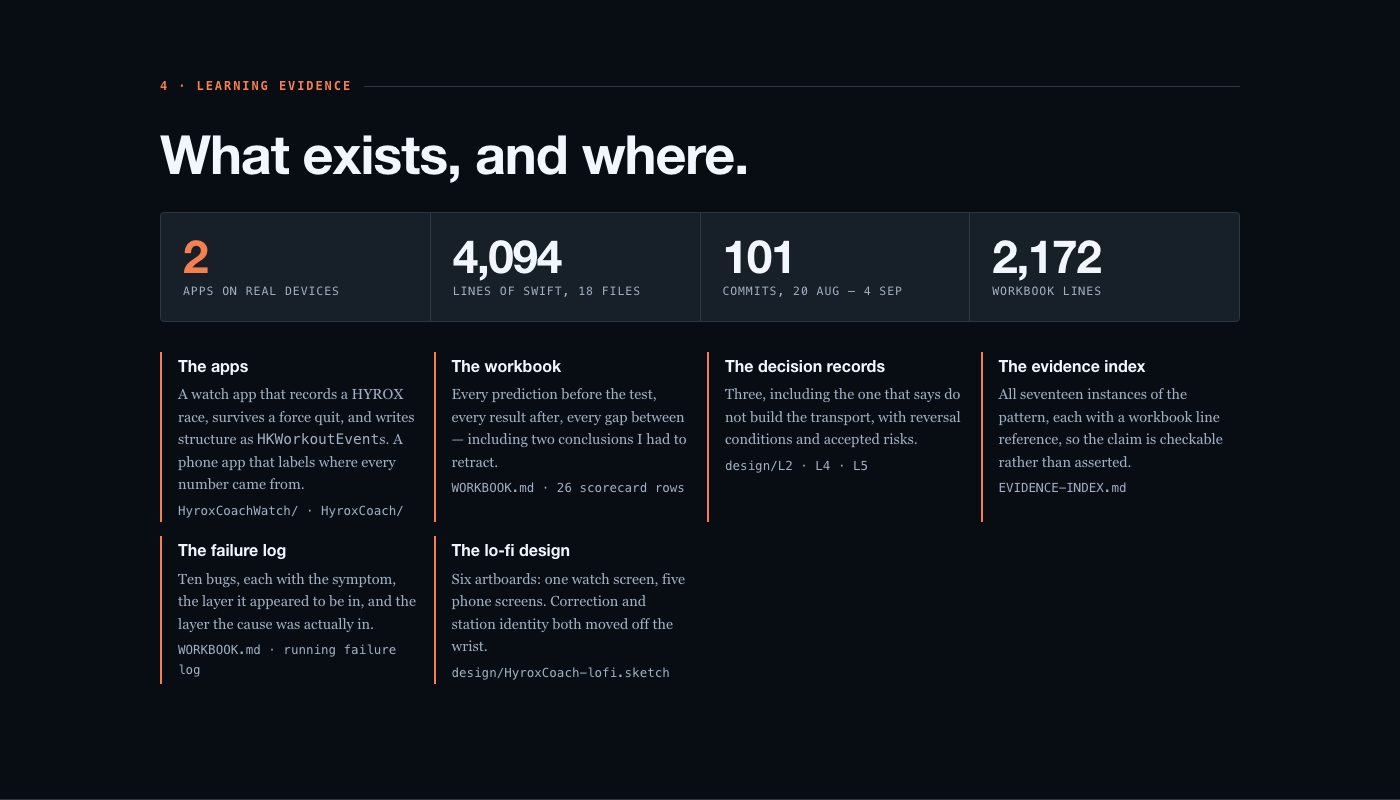
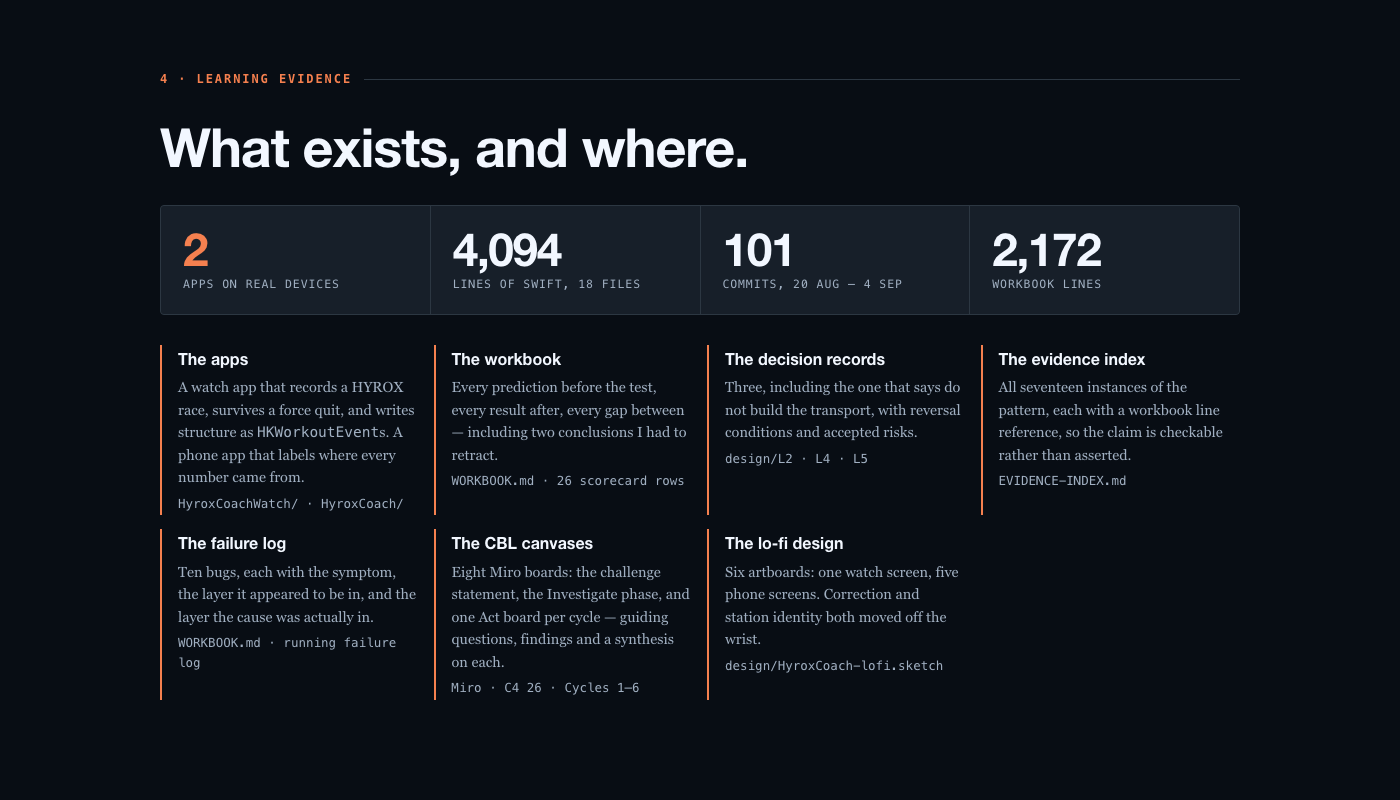
Add the CBL canvases to the learning evidence
Eight Miro boards: the challenge statement, the Investigate phase, and
one Act board per cycle.

diff --git a/design/talking-points.html b/design/talking-points.html
@@ -510,6 +510,11 @@
           <span class="f">WORKBOOK.md &middot; running failure log</span>
         </div>
         <div class="ev">
+          <span class="t">The CBL canvases</span>
+          <span class="d">Eight Miro boards: the challenge statement, the Investigate phase, and one Act board per cycle &mdash; guiding questions, findings and a synthesis on each.</span>
+          <span class="f">Miro &middot; C4 26 &middot; Cycles 1&ndash;6</span>
+        </div>
+        <div class="ev">
           <span class="t">The lo-fi design</span>
           <span class="d">Six artboards: one watch screen, five phone screens. Correction and station identity both moved off the wrist.</span>
           <span class="f">design/HyroxCoach-lofi.sketch</span>
